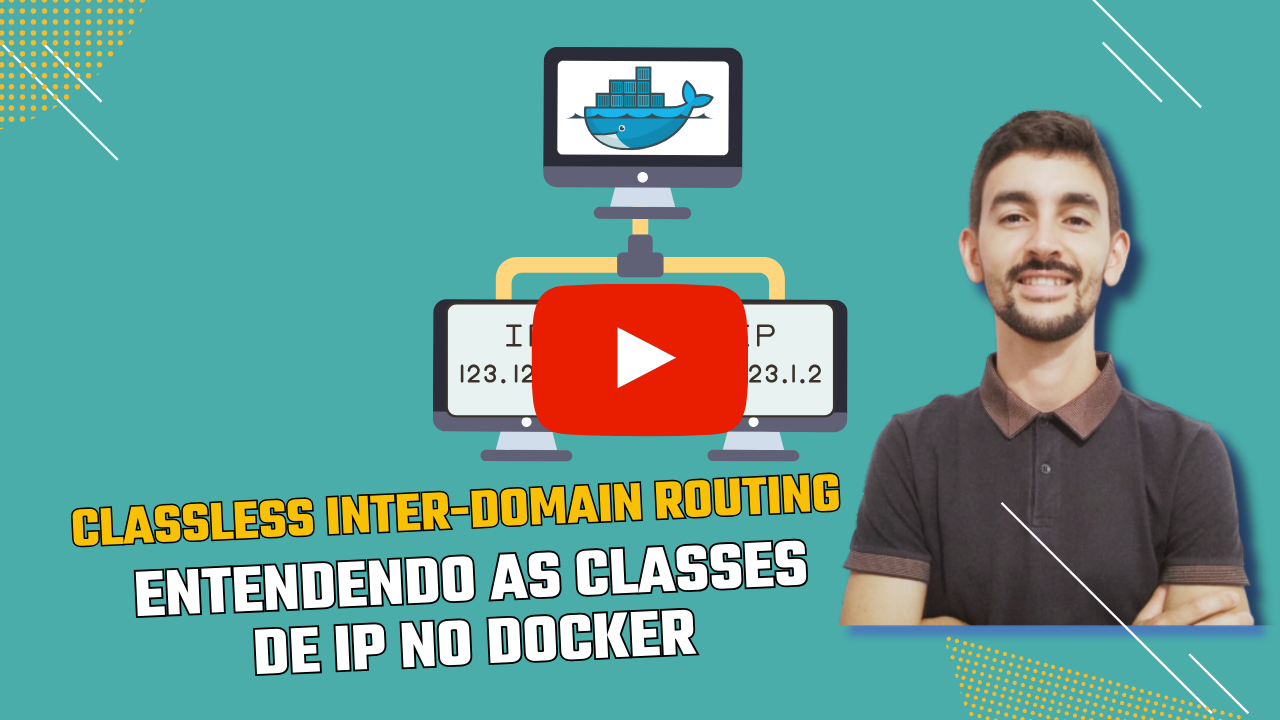
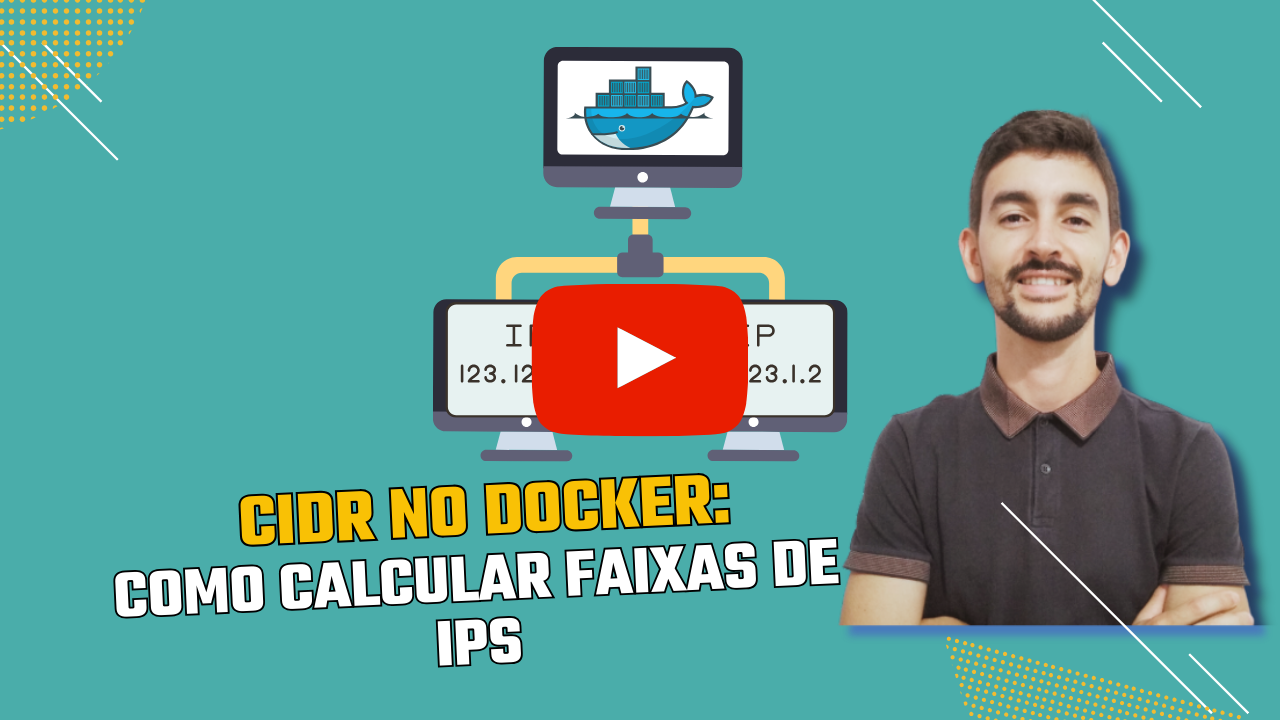
docs(Atualização): Link vídeo e thumbnail Youtube

Changed region(s): [[0.0312, 0.6417, 0.6562, 0.9472]]

diff --git a/README.md b/README.md
@@ -9,10 +9,10 @@ https://www.youtube.com/@renato-coelho
 ## Apresentação em Vídeo
 
 <p align="center">
-  <a href="https://www.youtube.com/@renato-coelho" target="_blank"><img src="imagens/thumbnail/thumbnail-cidr-faixas-ip-docker-github-01.png" alt="Vídeo de apresentação"></a>
+  <a href="https://youtu.be/cOIcNH27gkI" target="_blank"><img src="imagens/thumbnail/thumbnail-cidr-faixas-ip-docker-github-01.png" alt="Vídeo de apresentação"></a>
 </p>
 
-![YouTube Video Views](https://img.shields.io/youtube/views/????????) ![YouTube Video Likes](https://img.shields.io/youtube/likes//????????))
+![YouTube Video Views](https://img.shields.io/youtube/views/cOIcNH27gkI) ![YouTube Video Likes](https://img.shields.io/youtube/likes/cOIcNH27gkI)
 
 ### Requisitos
 
@@ -100,20 +100,10 @@ docker compose -p cidr -f docker-compose.yaml up -d --build
 - O número de **réplicas** da aplicação está diretamente ligado ao número de **IPs disponíveis**.
 - O intervalo de portas (`8000-8004`) segue a quantidade de réplicas configuradas.
 
-## Resumo
-
-1. O **CIDR** permite um uso mais eficiente dos endereços IP.
-2. As **máscaras de sub-rede** determinam quantos **hosts** podem existir dentro de uma rede.
-3. O **Docker** permite criar redes personalizadas com o comando:
-   ```bash
-   docker network create --subnet=10.10.1.0/24 minha_rede
-   ```
-4. No `docker-compose`, redes podem ser **customizadas e segmentadas** para melhor **segurança** e **escalabilidade**.
-
 ## Referências
 
 Endereço de IP, **Wikipedia**. Disponível em: <https://pt.wikipedia.org/wiki/Endereço_IP>. Acesso em: 04 fev. 2025.
 
-Classless Inter-domain Routing (CIDR): **RFC 4632**. Disponível em: <https://datatracker.ietf.org/doc/html/rfc4632>. Acesso em: 04 fev. 2025.
+Classless Inter-domain Routing (CIDR), **RFC 4632**. Disponível em: <https://datatracker.ietf.org/doc/html/rfc4632>. Acesso em: 04 fev. 2025.
 
 Networking overview, **Docker Docs**. Disponível em: <https://docs.docker.com/engine/network/>. Acesso em: 04 fev. 2025.
